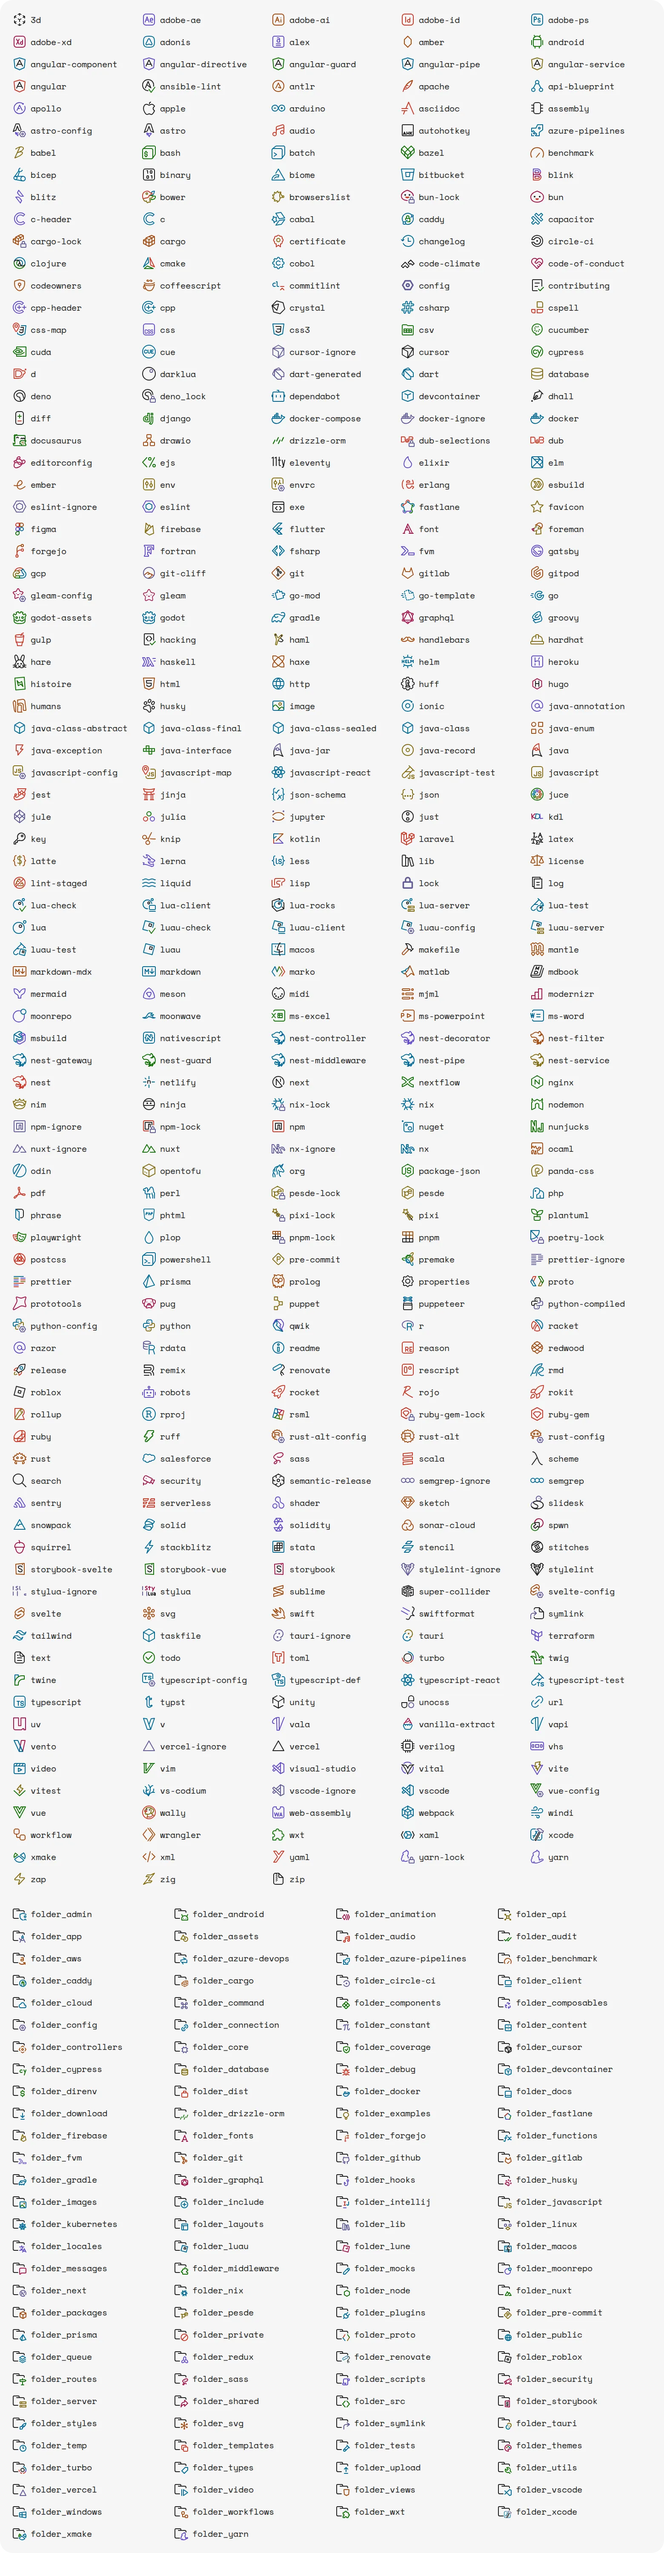
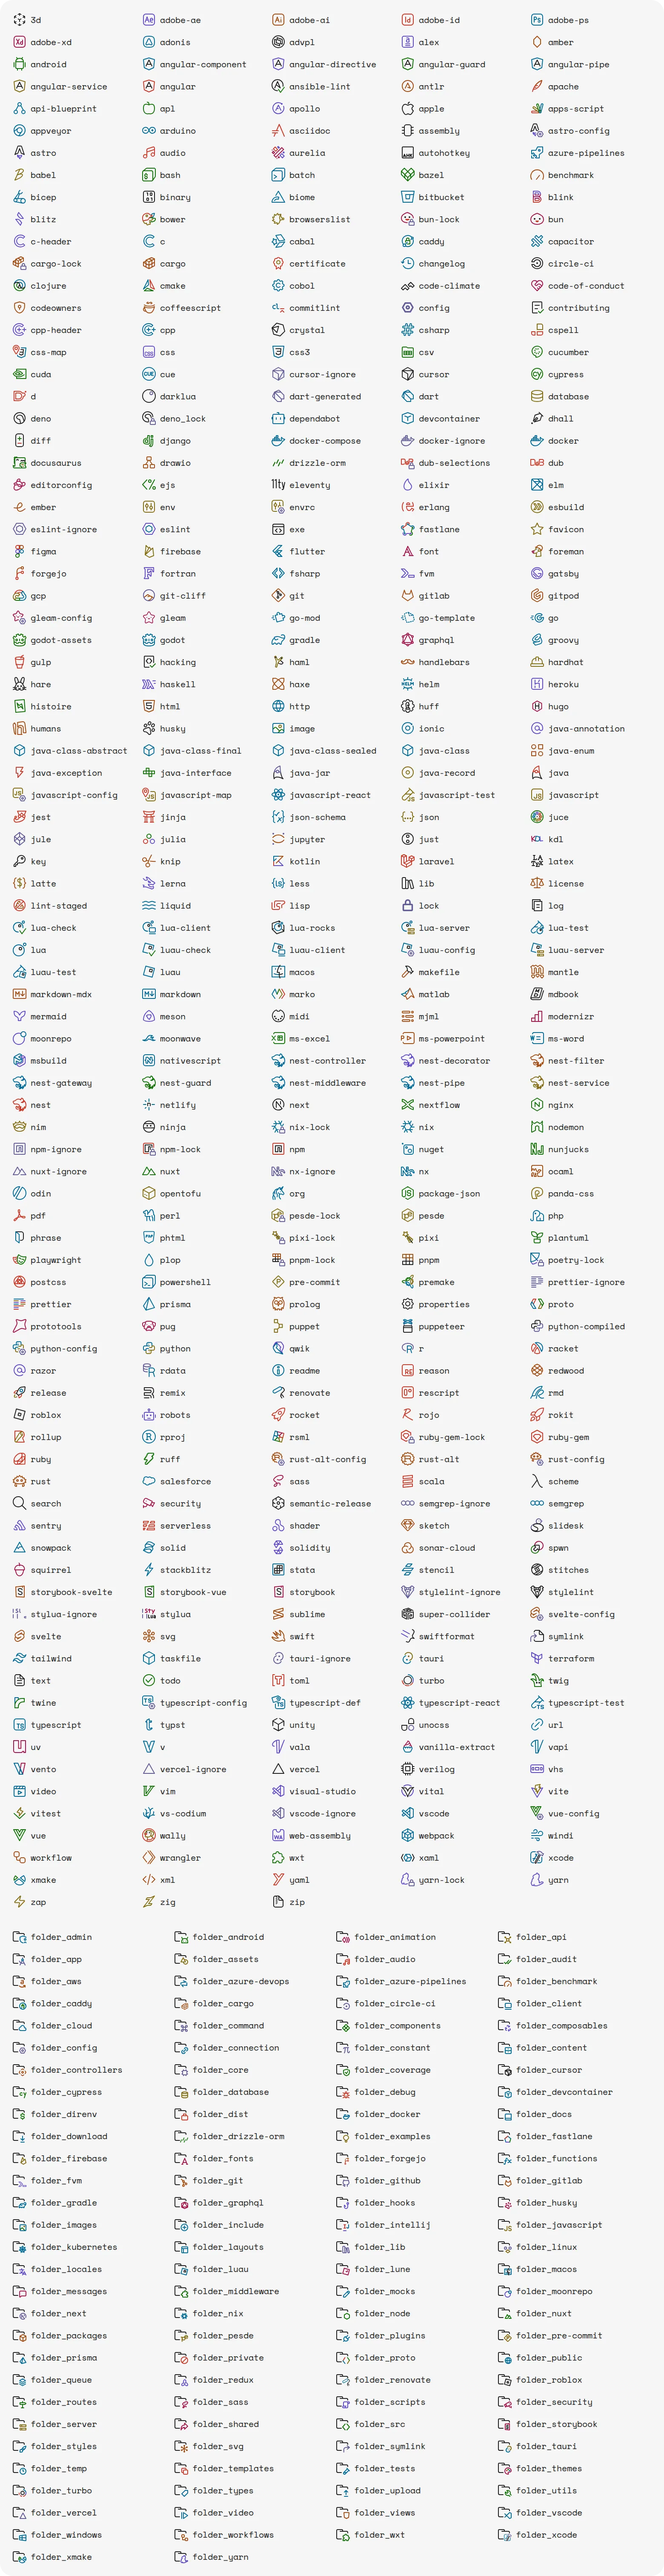
+5 iconos.

diff --git a/src/defaults/fileIcons.ts b/src/defaults/fileIcons.ts
@@ -42,6 +42,9 @@ const fileIcons: FileIcons = {
       'ace',
     ],
   },
+  'advpl': {
+    fileExtensions: ['prw', 'prx', 'ptm', 'tlpp', 'ch'],
+  },
   'alex': {
     fileNames: [
       '.alexrc',
@@ -97,6 +100,11 @@ const fileIcons: FileIcons = {
       'apiblueprint',
     ],
   },
+  'apl': {
+    fileExtensions: [
+      'apl',
+    ],
+  },
   'apollo': {
     fileNames: [
       'apollo.config.js',
@@ -107,6 +115,17 @@ const fileIcons: FileIcons = {
     fileNames: [
       'apple-app-site-association',
       'apple-developer-merchantid-domain-association',
+    ],
+  },
+  'apps-script': {
+    fileExtensions: [
+      'gs',
+    ],
+  },
+  'appveyor': {
+    fileNames: [
+      '.appveyor.yml',
+      'appveyor.yml',
     ],
   },
   'arduino': {
@@ -161,6 +180,11 @@ const fileIcons: FileIcons = {
       'wav',
       'wma',
       'wv',
+    ],
+  },
+  'aurelia': {
+    fileNames: [
+      'aurelia.json',
     ],
   },
   'autohotkey': {
